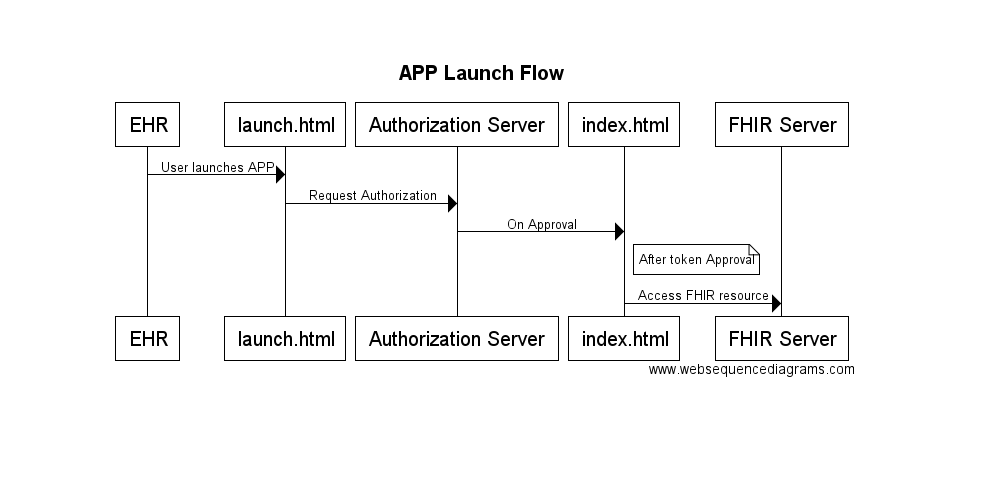
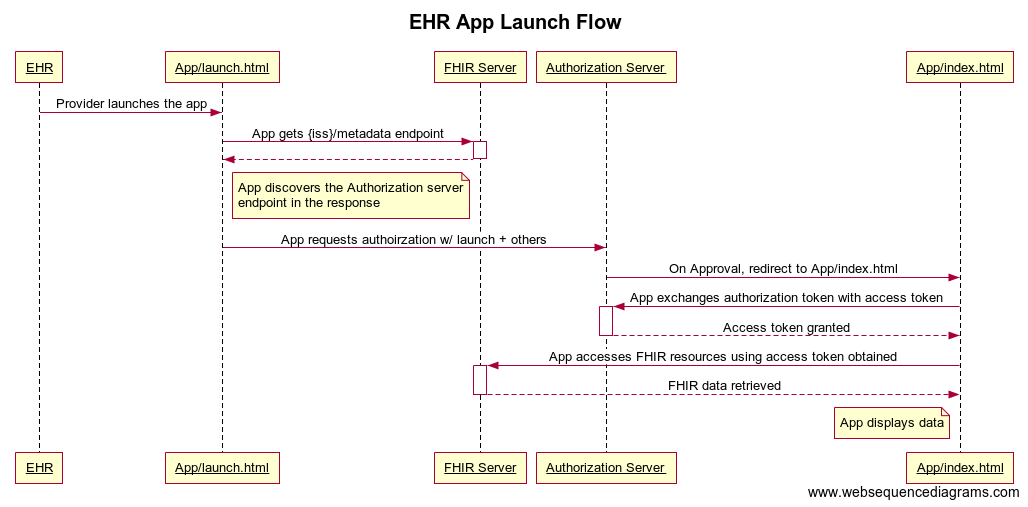
Add standalone launch section for Patient Access Workflow (#37)
Add standalone launch section for Patient Access Workflow

diff --git a/source/example-smart-app/launch-patient.html b/source/example-smart-app/launch-patient.html
@@ -1,0 +1,33 @@
+<!DOCTYPE html>
+<html lang="en" hidden>
+  <head>
+    <meta http-equiv="Content-Type" content="text/html; charset=utf-8" />
+    <meta http-equiv="X-UA-Compatible" content="IE=edge" />
+    <link rel='stylesheet' type='text/css' href='./src/css/example-smart-app.css'>
+    <link rel='stylesheet' type='text/css' href='./lib/css/cerner-smart-embeddable-lib-1.0.0.min.css'>
+    <title>Example-SMART-App</title>
+  </head>
+  <body>
+    <!-- Required JS files to enable this page to embed within an MPage -->
+    <script src='https://cdnjs.cloudflare.com/ajax/libs/babel-polyfill/6.26.0/polyfill.min.js'></script>
+    <script src='./lib/js/cerner-smart-embeddable-lib-1.0.0.min.js'></script>
+
+    <!-- FHIR Client JS Library -->
+    <script src='./lib/js/fhir-client-v0.1.12.js'></script>
+
+    <!-- Prevent session bleed caused by single threaded embedded browser and sessionStorage API -->
+    <!-- https://github.com/cerner/fhir-client-cerner-additions -->
+    <script src='./lib/js/fhir-client-cerner-additions-1.0.0.js'></script>
+    <script>
+      FHIR.oauth2.authorize({
+        'client_id': 'CLIENT_ID_HERE',
+        'scope':  'patient/Patient.read patient/Observation.read launch/patient online_access openid profile'
+      });
+    </script>
+    <div class="spinner">
+      <div class="bounce1"></div>
+      <div class="bounce2"></div>
+      <div class="bounce3"></div>
+    </div>
+  </body>
+</html>

diff --git a/source/index.html.md b/source/index.html.md
@@ -18,9 +18,10 @@ After completing this tutorial you will know how to:
 * Run an app in Cerner's SMART on FHIR sandbox.
 * Self register an app with SMART Health IT.
 * Run an app in SMART Health IT Sandbox.
+* Setup a standalone patient access app.
 
 # Prerequisites
-  * A public <a href="http://www.github.com" target="_blank">GitHub</a> account
+  * A public [GitHub](http://www.github.com) account
 
 # Project Setup
 
@@ -30,9 +31,9 @@ The `smart-on-fhir-tutorial/source/example-smart-app` folder contains the exampl
 
 **fhir-client.js**
 
-Located in the lib folder, this is a version of <a href="https://github.com/smart-on-fhir/client-js" target="_blank">fhir-client.js</a> which is an open source library designed to assist with calling a FHIR API and handling the SMART on FHIR authorization workflow. This tutorial uses this library when walking you through building your first SMART app.
+Located in the lib folder, this is a version of [fhir-client.js](https://github.com/smart-on-fhir/client-js) which is an open source library designed to assist with calling a FHIR API and handling the SMART on FHIR authorization workflow. This tutorial uses this library when walking you through building your first SMART app.
 
-Additional documentation on fhir-client.js can be found <a href="http://docs.smarthealthit.org/clients/javascript/" target="_blank">here</a>.
+Additional documentation on fhir-client.js can be found [here](http://docs.smarthealthit.org/clients/javascript/).
 
 <aside class="notice">
 This tutorial is designed to have a minimal footprint so we made the decision to directly include fhir-client.js for simplicity. For your production applications we'd recommend pulling in fhir-client.js using npm or some other package manager to easily keep your application up to date.
@@ -40,15 +41,23 @@ This tutorial is designed to have a minimal footprint so we made the decision to
 
 **launch.html**
 
-launch.html is the SMART app's initial entry point and in a real production environment, would be invoked by the application launching your SMART app (for instance, the EHR or patient portal). In the [SMART documentation](http://docs.smarthealthit.org/), this is your app's "launch URL". In this tutorial, this page will be invoked when you launch your app from Cerner's [code Console](https://code.cerner.com/developer/smart-on-fhir/apps).
+launch.html is the SMART app's initial entry point and in a real production environment, would be invoked by the application launching your SMART app (for instance, the EHR or patient portal). In the [SMART documentation](http://docs.smarthealthit.org/), this is your app's "launch URL". In this tutorial, this page will be invoked when you launch your app from Cerner's [code console](https://code.cerner.com/developer/smart-on-fhir/apps).
 
 As the entry point into your SMART app, this page will kick-off the SMART authorization workflow.
+
+**launch-patient.html**
+
+Similar to the launch.html above, this file is the entry point when launching a standalone patient application. This file was created for convenience factor. In production, you may want to create a separate app for patient facing vs provider facing version of the app.  More info on this in [Standalone App Launch for Patient Access Workflow](#standalone-app-launch-for-patient-access-workflow) section.
+
+**launch-smart-sandbox.html**
+
+This is a clone of the launch.html above. This file was created for convenience factor to allow you to use the same app to configure it against the SMART Health IT Sandbox.  More info on this in [Run your app against SMART Health IT Sandbox](https://sandbox.smarthealthit.org) section.
 
 **index.html**
 
 This page will be invoked via redirect from the Authorization server at the conclusion of the SMART authorization workflow. When this page is invoked, your SMART app will have everything it needs to run and access the FHIR API.
 
-The other content you see in the source folder is the site for this tutorial. We used <a href="https://github.com/lord/slate" target="_blank">Slate</a> to create the documentation for this tutorial.
+The other content you see in the source folder is the site for this tutorial. We used [Slate](https://github.com/lord/slate) to create the documentation for this tutorial.
 
 # GitHub Pages
 
@@ -69,40 +78,40 @@ The other content you see in the source folder is the site for this tutorial. We
 >The SMART app will be available at:
 
 ```
-https://<your-username>.github.io/smart-on-fhir-tutorial/example-smart-app/
+https://<gh-username>.github.io/smart-on-fhir-tutorial/example-smart-app/
 ```
 >Health check
 
 ```
-https://<your-username>.github.io/smart-on-fhir-tutorial/example-smart-app/health
+https://<gh-username>.github.io/smart-on-fhir-tutorial/example-smart-app/health
 ```
 
-For the purposes of this tutorial we will be hosting our SMART app through <a href="https://help.github.com/articles/what-is-github-pages" target="_blank">GitHub Pages</a>. GitHub Pages is a convenient way to host static or client rendered web sites.
+For the purposes of this tutorial we will be hosting our SMART app through [GitHub Pages](https://help.github.com/articles/what-is-github-pages). GitHub Pages is a convenient way to host static or client rendered web sites.
 
 Setting up GitHub pages is easy, so easy in fact that it's already done for you. GitHub pages works by hosting content from a gh-pages branch. Since you forked the tutorial, the gh-pages branch has already been created, however GitHub won't publish your site until you make a change to the gh-pages branch, so let's make a change. Modify the index.html page to include your GitHub user-name in the title, and commit directly to gh-pages branch.
 
 Use GitHub UI to directly edit `index.html`. Simply switch the branch to gh-pages, navigate to `/example-smart-app/index.html` and click the pencil icon. Commit your changes to deploy.
 
-Once the app has been redeployed go to ```https://<your-username>.github.io/smart-on-fhir-tutorial/example-smart-app/health``` to ensure your app is available.
+Once the app has been redeployed go to ```https://<gh-username>.github.io/smart-on-fhir-tutorial/example-smart-app/health``` to ensure your app is available.
 
 <aside class="notice">
 GitHub Pages sites have a limit of 10 builds per hour, so if your page isn't updating, this could be the reason.
 </aside>
 
 # Registration
-Now that we have a deployed SMART app, let's register it to access Cerner's FHIR resources. We have created a self registration console to allow any developer to be able run a SMART app against our development environment. Navigate to our <a href="https://code.cerner.com/developer/smart-on-fhir/apps" target="_blank">code console</a>, if you don't have a Cerner Care Account, go ahead and sign up for one (it's free!). Once logged into the console, click on the "+ New App" button in the top right toolbar and fill in the following details:
+Now that we have a deployed SMART app, let's register it to access Cerner's FHIR resources. We have created a self registration console to allow any developer to be able run a SMART app against our development environment. Navigate to our [code console](https://code.cerner.com/developer/smart-on-fhir/apps), if you don't have a Cerner Care Account, go ahead and sign up for one (it's free!). Once logged into the console, click on the "+ New App" button in the top right toolbar and fill in the following details:
 
 Field | Description
 --------- | -----------
 App Name | ```My amazing SMART app``` Any name will do.
-SMART Launch URI | ```https://<your-username>.github.io/smart-on-fhir-tutorial/example-smart-app/launch.html```
-Redirect URI | ```https://<your-username>.github.io/smart-on-fhir-tutorial/example-smart-app/```
-App Type | ```Provider```
-FHIR Spec | ```dstu2_provider``` The latest spec version supported by Cerner.
+SMART Launch URI | ```https://<gh-username>.github.io/smart-on-fhir-tutorial/example-smart-app/launch.html```
+Redirect URI | ```https://<gh-username>.github.io/smart-on-fhir-tutorial/example-smart-app/```
+App Type | ```Provider``` Provider facing app
+FHIR Spec | ```dstu2``` The latest spec version supported by Cerner.
 Authorized | ```Yes``` Authorized App will go through secured OAuth 2 login.
 Standard Scopes | These scopes are required to launch the SMART app.
 User Scopes | None
-Patient Scopes | Select the Patient and Observation scopes
+Patient Scopes | Locate the ***Patient Scopes*** table and select the ***Patient*** read and ***Observation*** read scopes.
 
 Click "Register" to complete the process. This will add the app to your account and create a client id for app authorization.
 
@@ -114,15 +123,35 @@ The new OAuth 2 client id will be displayed in a banner at the top of the page a
 After initially registering your SMART app, it can take up to 10 minutes for your app details to propogate throughout our sandbox. So, please wait 10 minutes before trying to launch your app. Don't fret, we're working on fixing this!
 </aside>
 
+## Provider App
+
 We have now created our own SMART app and registered that app with Cerner to access the FHIR resources. Before we continue on with the next steps, let's take a moment to talk about the flow of a SMART app launch.
 
 The SMART app launch flow begins with the EHR. Through some method, a user has indicated that they wish to launch a smart application. The EHR redirects to the SMART ```Launch URI``` that was registered above.
 
 In this example ```Launch URI``` is launch.html. launch.html redirects to the FHIR authorization server which in-turn redirects to the ```Redirect URI```, index.html, upon a successful authentication.
 
-Post-authentication, index.html exchanges the returned authorization token for an access token and is then able to request resources from the FHIR server. Let's take a deeper look at launch.html and get it ready for authentication. For more information about the SMART app launching vist the <a href="http://docs.smarthealthit.org/authorization/" target="_blank">SMART Health IT site</a>.
+Post-authentication, index.html exchanges the returned authorization token for an access token and is then able to request resources from the FHIR server. Let's take a deeper look at launch.html and get it ready for authentication. For more information about the SMART app launching vist the [SMART Health IT site](http://docs.smarthealthit.org/authorization/).
 
-![alt text](ehr_launch_seq.png "High Level EHR APP Launch Flow")
+![alt text](ehr_launch_seq.png "High Level EHR App Launch Flow")
+
+EHR App Launch Flow - Full size image [here](images/ehr_launch_seq.png)
+
+## Patient App
+
+Unlike the EHR app launch flow above, the standalone patient app does not need to be launched by an EHR. Cerner currently supports only the patient standalone launch at the moment.  You can learn more about the standalone launch at [SMART Health IT site](http://docs.smarthealthit.org/authorization/).
+
+There are a few minor differences:
+
+* Patients can launch any standalone app
+* App provides the iss param of the FHIR server
+* App can request launch/patient scope to obtain a patient in context
+
+More information on how to configure a patient standalone app can be found in [Standalone App Launch for Patient Access Workflow](#standalone-app-launch-for-patient-access-workflow) section below.
+
+![alt text](patient_launch_seq.png "High Level Patient App Launch Flow")
+
+Patient App Launch Flow - Full size image [here](images/patient_launch_seq.png)
 
 # Request Authorization
 
@@ -156,7 +185,7 @@ Post-authentication, index.html exchanges the returned authorization token for a
 
 The responsibility of launch.html is to redirect to the appropriate FHIR authorization server. As you can see in the code, fhir-client makes our job pretty easy. All we have to do is call ```FHIR.oauth2.authorize``` and supply the client_id generated by the code console during registration and the scopes we registered.
 
-The client_id is found in the app details page that can be accessed by clicking on the application icon in the <a href="https://code.cerner.com/developer/smart-on-fhir/apps" target="_blank">code console</a>. Copy the client_id into the authorize call in launch.html, commit the changes back to your repo and redeploy your site.
+The client_id is found in the app details page that can be accessed by clicking on the application icon in the [code console](https://code.cerner.com/developer/smart-on-fhir/apps). Copy the client_id into the authorize call in launch.html, commit the changes back to your repo and redeploy your site.
 
 For the purposed of this tutorial you don't need to modify the scopes. This list should match the scopes that you registered the application with.
 
@@ -168,14 +197,14 @@ patient/Patient.read | Permission to read Patient resource for the current patie
 patient/Observation.read | Permission to read Observation resource for the current patient.
 openid, profile | Permission to retrieve information about the current logged-in user. Required for EHR launch.
 launch | Permission to obtain launch context when app is launched from an EHR. Required for EHR launch.
-launch/patient | When launching outside the EHR, ask for a patient to be selected at launch time. Required for stand-alone launch.
+launch/patient | Permission to have a patient be selected when performing a patient facing standalone launch. Required ONLY for patient standalone launch. Apps can choose to use user/Patient.read or user/Observation.read scopes and wouldn't need launch scope at all. See this section: [Standalone App Launch for Patient Access Workflow](#standalone-app-launch-for-patient-access-workflow).
 online_access | Request a refresh_token that can be used to obtain a new access token to replace an expired one, and that will be usable for as long as the end-user remains online. Required for EHR launch.
 
 For our app we will use Patient.read, Observation.read.
 We will always include launch, online_access, openid & profile scopes to our app.
 
 <aside class="notice">
-Cerner does not allow use of wildcards(*). So instead of patient/*.read you will need to specify a particular scope of resource you will be using. Something like patient/Patient.read, patient/Observation.read etc. For the list of resources, visit <a href='http://fhir.cerner.com/'>http://fhir.cerner.com/</a>
+Cerner does not allow use of wildcards(*). So instead of patient/*.read you will need to specify a particular scope of resource you will be using. Something like patient/Patient.read, patient/Observation.read etc. For the list of resources, visit <a href='http://fhir.cerner.com'>http://fhir.cerner.com/</a>.
 </aside>
 
 So just what exactly is the ```FHIR.oauth2.authorize``` method doing?
@@ -185,7 +214,7 @@ Through an EHR launch, launch.html will be supplied with two query params ```iss
 ```iss``` is the EHR's FHIR end point and ```launch``` is an identifier that will be passed along to the authorization server.
 
 ```FHIR.oauth2.authorize``` queries the FHIR endpoint to find the URI for authorization.
-It then simply redirects to that endpoint, filling out the required API which includes the supplied client_id, scopes and the launch parameter passed in from the EHR. (There are a few more params that can be read about <a href='http://docs.smarthealthit.org/authorization/)'>here</a>). Additionally the function generates an appropriate ```state``` parameter that will then be checked after redirecting to the index page.
+It then simply redirects to that endpoint, filling out the required API which includes the supplied client_id, scopes and the launch parameter passed in from the EHR. (There are a few more params that can be read about [here](http://docs.smarthealthit.org/authorization/)). Additionally the function generates an appropriate ```state``` parameter that will then be checked after redirecting to the index page.
 
 Following the ```FHIR.oauth2.authorize```, the app will redirect to the authorization server, which, on a successful authorization, will redirect back to the ```Redirect URI```, in this case, index.html
 
@@ -331,7 +360,7 @@ The fhir-client.js library defines several useful API's we can use to retrieve t
   * This will return the context for the patient the app was launched for.
 * ```smart.patient.api```
   * ```fetchAll()```
-    * This will use the <a https://github.com/FHIR/fhir.js)'>fhir.js</a>) API to retrieve a complete set of resources for the patient in context.
+    * This will use the [fhir.js](https://github.com/FHIR/fhir.js) API to retrieve a complete set of resources for the patient in context.
 
 Both of these functions will return a jQuery deferred object which we unpack on success.
 
@@ -339,7 +368,7 @@ Unpacking is fairly straight forward. We're taking the response from the patient
 
 The last function from fhir-client.js is the ```byCodes``` utility function that returns a function to search a given resource for specific codes returned from that response.
 
-The fhir-client.js library defines several more API's that will come in handy while developing smart app. Read about them <a href='http://docs.smarthealthit.org/clients/javascript/'>here</a>.
+The fhir-client.js library defines several more API's that will come in handy while developing smart app. Read about them [here](http://docs.smarthealthit.org/clients/javascript/).
 
 # Displaying the Resource
 
@@ -430,7 +459,7 @@ The last remaining task for our application is displaying the resource informati
 
 Now that we have a snazzy SMART app, it's time to test it.
 
-Next log back into the <a href="https://code.cerner.com/developer/smart-on-fhir/apps" target="_blank">code console</a> and click on the app you've registered (My amazing SMART app). To launch your app through the code console click the "Begin Testing" button. The console will ask if the app you're launching requires a patient in context. Our app requires a patient, so select yes and choose a patient. Please note the millennium username and password, you'll need this credential when prompted. Finally, click launch and the console will redirect to your application.
+Next log back into the [code console](https://code.cerner.com/developer/smart-on-fhir/apps) and click on the app you've registered (My amazing SMART app). To launch your app through the code console click the "Begin Testing" button. The console will ask if the app you're launching requires a patient in context. Our app requires a patient, so select yes and choose a patient. Please note the millennium username and password, you'll need this credential when prompted. Finally, click launch and the console will redirect to your application.
 
 # MPages® Integration
 
@@ -472,17 +501,17 @@ Once these relevant files and HTML tags are included inside each view of the app
 
 # Run your app against SMART Health IT Sandbox
 
-One of the reasons why SMART on FHIR is awesome is because of the interoperability factor!  If an EHR follows the SMART and FHIR specifications, your application will work with that EHR's SMART on FHIR implemenmtation.  Let's see if the app that you've built will work with <a href="https://sandbox.smarthealthit.org" target="_blank">SMART Health IT Sandbox</a>.  The following steps will walk you through setting up your app at SMART Health IT Sandbox.
+One of the reasons why SMART on FHIR is awesome is because of the interoperability factor!  If an EHR follows the SMART and FHIR specifications, your application will work with that EHR's SMART on FHIR implemenmtation.  Let's see if the app that you've built will work with [SMART Health IT Sandbox](https://sandbox.smarthealthit.org).  The following steps will walk you through setting up your app at SMART Health IT Sandbox.
 
-* Go to <a href="https://sandbox.smarthealthit.org" target="_blank">https://sandbox.smarthealthit.org</a> (create an account or sign in)
+* Go to [https://sandbox.smarthealthit.org](https://sandbox.smarthealthit.org) (create an account or sign in)
 * Under My Sandboxes, select SMART DSTU2 Sandbox
 * You will come to a list of your Registered Sandbox Apps. There are 3 SMART apps automatically configured on your account (BP Centiles, Cardiac Risk, and Growth Chart).
 * Add your SMART example app by clicking “Register Manually” under the “Registered Sandbox Apps” title
 * You will see a modal popup that allows you to configure your application details, then hit save.
  * Keep the default App Type: Public Client
  * Fill in relevant details just as you did for the Cerner sandbox (App name, redirect URI)
- * For launch URI, use the following value but replace `<your-username>` with your GitHub username:
-  * ```https://<your-username>.github.io/smart-on-fhir-tutorial/example-smart-app/launch-smart-sandbox.html```
+ * For launch URI, use the following value but replace `<gh-username>` with your GitHub username:
+  * ```https://<gh-username>.github.io/smart-on-fhir-tutorial/example-smart-app/launch-smart-sandbox.html```
  * Keep “Allow Offline Access” checkbox unchecked and the Patient Scoped App checked as well (these are defaults)
 
 > Update client ID in launch-smart-sandbox.html
@@ -503,6 +532,74 @@ One of the reasons why SMART on FHIR is awesome is because of the interoperabili
 * You can now launch the application by clicking “launch”, and choose a patient in context (some patients with Observations include: [Allen, Carol G. | Adams, Daniel X. | Coleman, Lisa P.])
 * You will be re-directed to the OpenID connect authorization server – similar to the Cerner Millenium login screen. All you have to do is at the bottom of the screen, click “Authorize” when it asks “Do you authorize [insert app name here]”.
 
+# Standalone App Launch for Patient Access Workflow
+
+SMART supports EHR launch and standalone launch. However, Cerner currently only supports standalone launch for patient access workflow. The standalone application does not need to be launched by an EHR.  The app can launch and access FHIR data on its own, provided the app is authorized and given the iss URL.
+
+You can find out more about standalone launch on the [SMART Health IT site](http://docs.smarthealthit.org/authorization/) under the "Standalone launch sequence" header.
+
+Since patient access is specifically for patient workflow, we need to create another app in [code console](https://code.cerner.com/developer/smart-on-fhir/apps).  Below, you can follow the instruction to perform this registration.
+
+## Registration
+Navigate to our [code console](https://code.cerner.com/developer/smart-on-fhir/apps). Once logged in, click on the "+ New App" button in the top right toolbar and fill in the following details:
+
+Field | Description
+--------- | -----------
+App Name | ```My amazing SMART Patient App``` Any name will do.
+SMART Launch URI | Leave this field blank since this is a standalone patient app.
+Redirect URI | ```https://<gh-username>.github.io/smart-on-fhir-tutorial/example-smart-app/```
+App Type | ```Patient``` Patient facing app
+FHIR Spec | ```dstu2``` The latest spec version supported by Cerner.
+Authorized | ```Yes``` Authorized App will go through secured OAuth 2 login.
+Standard Scopes | These scopes are required to launch the SMART patient app.
+User Scopes | None
+Patient Scopes | Locate the ***Patient Scopes*** table and select the ***Patient*** read and ***Observation*** read scopes.
+
+Click "Register" to complete the process. This will add the app to your account and create a client id for app authorization.
+
+The new OAuth 2 client id will be displayed in a banner at the top of the page and can be viewed at any time by clicking on the application icon to view more details.
+
+## Request Authorization
+
+The `launch-patient.html` file had been created for you already.  You'll need to update the client id with the new one you've just gotten. This file shows what your app will use to request authorization with the Authorization server.
+
+> launch-patient.html
+
+```html
+  <script>
+    FHIR.oauth2.authorize({
+      'client_id': '<enter your client id here>',
+      'scope':  'patient/Patient.read patient/Observation.read launch/patient online_access openid profile'
+    });
+  </script>
+```
+
+> Make sure to replace CLIENT_ID with the new client id provided in code console. Notice that `launch/patient` is used here instead of `launch`.  This is because during a standalone launch the app does not have access to the patient in context and thereby it would need to request permission to access patient information.
+
+Finally, save `launch-patient.html` file in `gh-pages` branch.
+
+## Launch a Standalone App
+
+> Cerner's Sandbox Patient Access Endpoint:
+
+```
+https://fhir-myrecord.sandboxcerner.com/dstu2/0b8a0111-e8e6-4c26-a91c-5069cbc6b1ca
+```
+
+The `iss` value in the query parameter represents the URL for our Sandbox Patient Access endpoint.  This value tells the app where to look for the `metadata` endpoint, which contains the authorization endpoints that the app needs to call.
+
+> Launch URL:
+
+```
+  https://<gh-username>.github.io/smart-on-fhir-tutorial/example-smart-app/launch-patient.html?iss=https://fhir-myrecord.sandboxcerner.com/dstu2/0b8a0111-e8e6-4c26-a91c-5069cbc6b1ca
+```
+
+Since this app is a standalone app, it does not need to be launched by the EHR (code console).
+
+Replace `<gh-username>` with your GitHub's username. Then, enter the URL above into the browser, the browser should redirect to the login page. You can use patients' credentials listed in the first post in this [discussion](https://groups.google.com/forum/#!topic/cerner-fhir-developers/edPUbVPIag0).
+
+Once you authenticated and authorized the app, the app should load with Patient and Observation data.
+
 # Next Steps
 Through this tutorial we have:
 
@@ -511,6 +608,7 @@ Through this tutorial we have:
 * Run the app in Cerner's SMART on FHIR sandbox.
 * Registered that app with SMART Health IT Sandbox.
 * Run the app in SMART Health IT Sandbox.
+* Setup a standalone patient access app.
 
 We've created a very basic application that meets the base requirements of being a SMART app. This application would require a fair amount of polish before being ready to be deployed in a production environment. A couple of next steps you could look at are:
 
